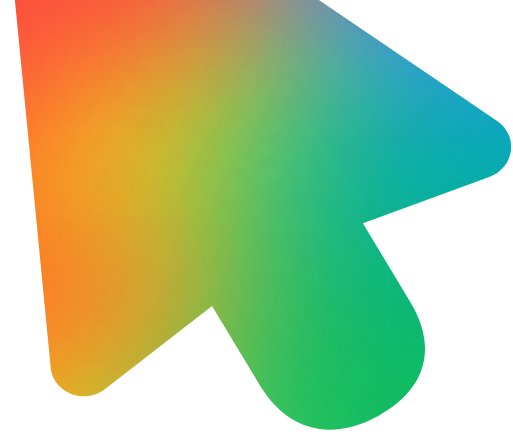
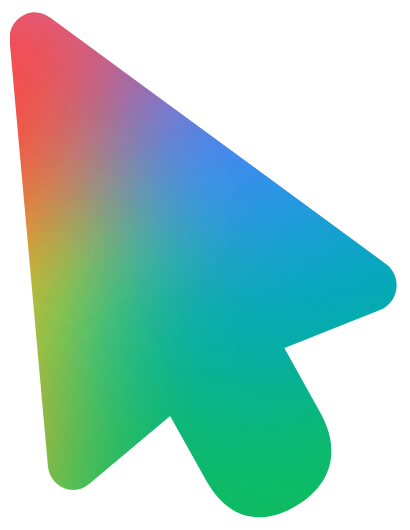
fix(assets): re-bake cursor with padding to prevent top tip clipping and update aspect ratios across pages

diff --git a/devjams/app/idea/submission/page.tsx b/devjams/app/idea/submission/page.tsx
@@ -154,7 +154,7 @@ export default function IdeaSubmissionPage() {
 
           {/* 4. Cursor Logo */}
           <div
-            className="absolute left-[80%] top-[23.3%] w-[20%] aspect-[170/205] flex items-center justify-center"
+            className="absolute left-[80%] top-[23.3%] w-[20%] aspect-[41/53] flex items-center justify-center"
             style={{
               mixBlendMode: "screen",
               filter: "brightness(1.12) saturate(1.05)",
@@ -164,7 +164,7 @@ export default function IdeaSubmissionPage() {
               src="/assets/baked/cursor.png"
               alt="Cursor"
               width={170}
-              height={205}
+              height={220}
               priority
               className="w-full h-full object-contain"
             />
@@ -172,8 +172,8 @@ export default function IdeaSubmissionPage() {
         </div>
       </div>
 
-      {/* Main Form Content Container (Frame 1948755618) */}
-      <div className="w-full max-w-[1072px] mx-auto flex flex-col items-center gap-[clamp(14px,2vh,24px)] mt-2 z-20 px-1 sm:px-3 md:px-0">
+      {/* Main Form Content Container (Frame 1948755618 - Centered in mobile) */}
+      <div className="w-full max-w-[1072px] mx-auto my-auto flex flex-col items-center justify-center gap-[clamp(14px,2vh,24px)] z-20 px-1 sm:px-3 md:px-0 py-6 sm:py-0">
         <h1
           className="text-white font-bold tracking-normal leading-[1.2] text-center capitalize m-0 select-none w-full text-[clamp(36px,4.5vw,64px)]"
           style={{

diff --git a/devjams/app/profile/page.tsx b/devjams/app/profile/page.tsx
@@ -33,7 +33,7 @@ export default function ProfilePage() {
             />
           </div>
           <div
-            className="relative h-[clamp(75px,11vw,140px)] w-auto aspect-[171/144] flex items-center justify-center -ml-[30%]"
+            className="relative h-[clamp(75px,11vw,140px)] w-auto aspect-[41/53] flex items-center justify-center -ml-[30%]"
             style={{
               mixBlendMode: "screen",
               filter: "brightness(1.15) saturate(1.05)",
@@ -43,7 +43,7 @@ export default function ProfilePage() {
               src="/assets/baked/cursor.png"
               alt="Cursor"
               width={171}
-              height={144}
+              height={221}
               priority
               className="w-full h-full object-contain"
             />

diff --git a/devjams/app/team/page.tsx b/devjams/app/team/page.tsx
@@ -114,7 +114,7 @@ export default function TeamPage() {
 
           {/* 4. Cursor Logo */}
           <div
-            className="absolute left-[80%] top-[23.3%] w-[20%] aspect-[170/205] flex items-center justify-center"
+            className="absolute left-[80%] top-[23.3%] w-[20%] aspect-[41/53] flex items-center justify-center"
             style={{
               mixBlendMode: "screen",
               filter: "brightness(1.12) saturate(1.05)",
@@ -124,7 +124,7 @@ export default function TeamPage() {
               src="/assets/baked/cursor.png"
               alt="Cursor"
               width={170}
-              height={205}
+              height={220}
               priority
               className="w-full h-full object-contain"
             />
